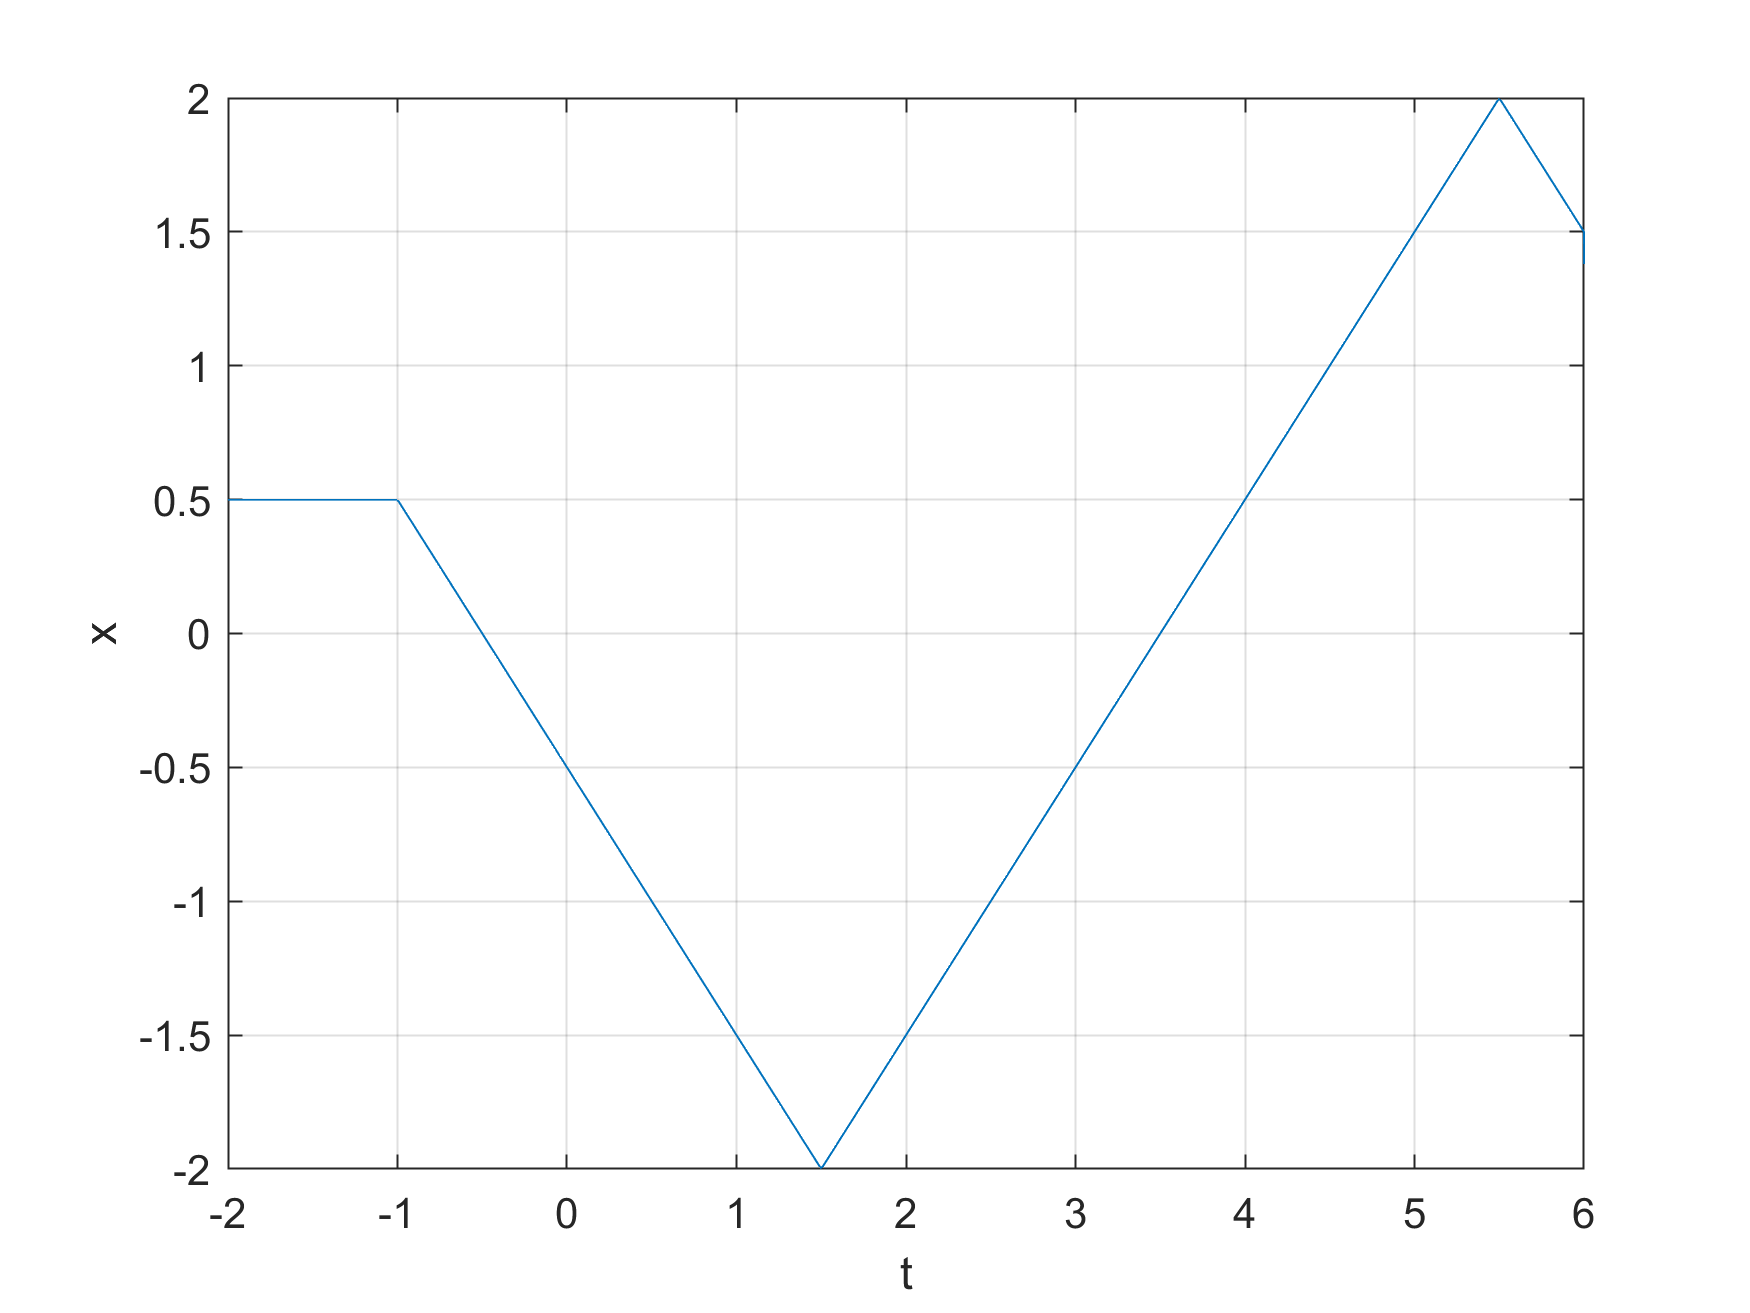
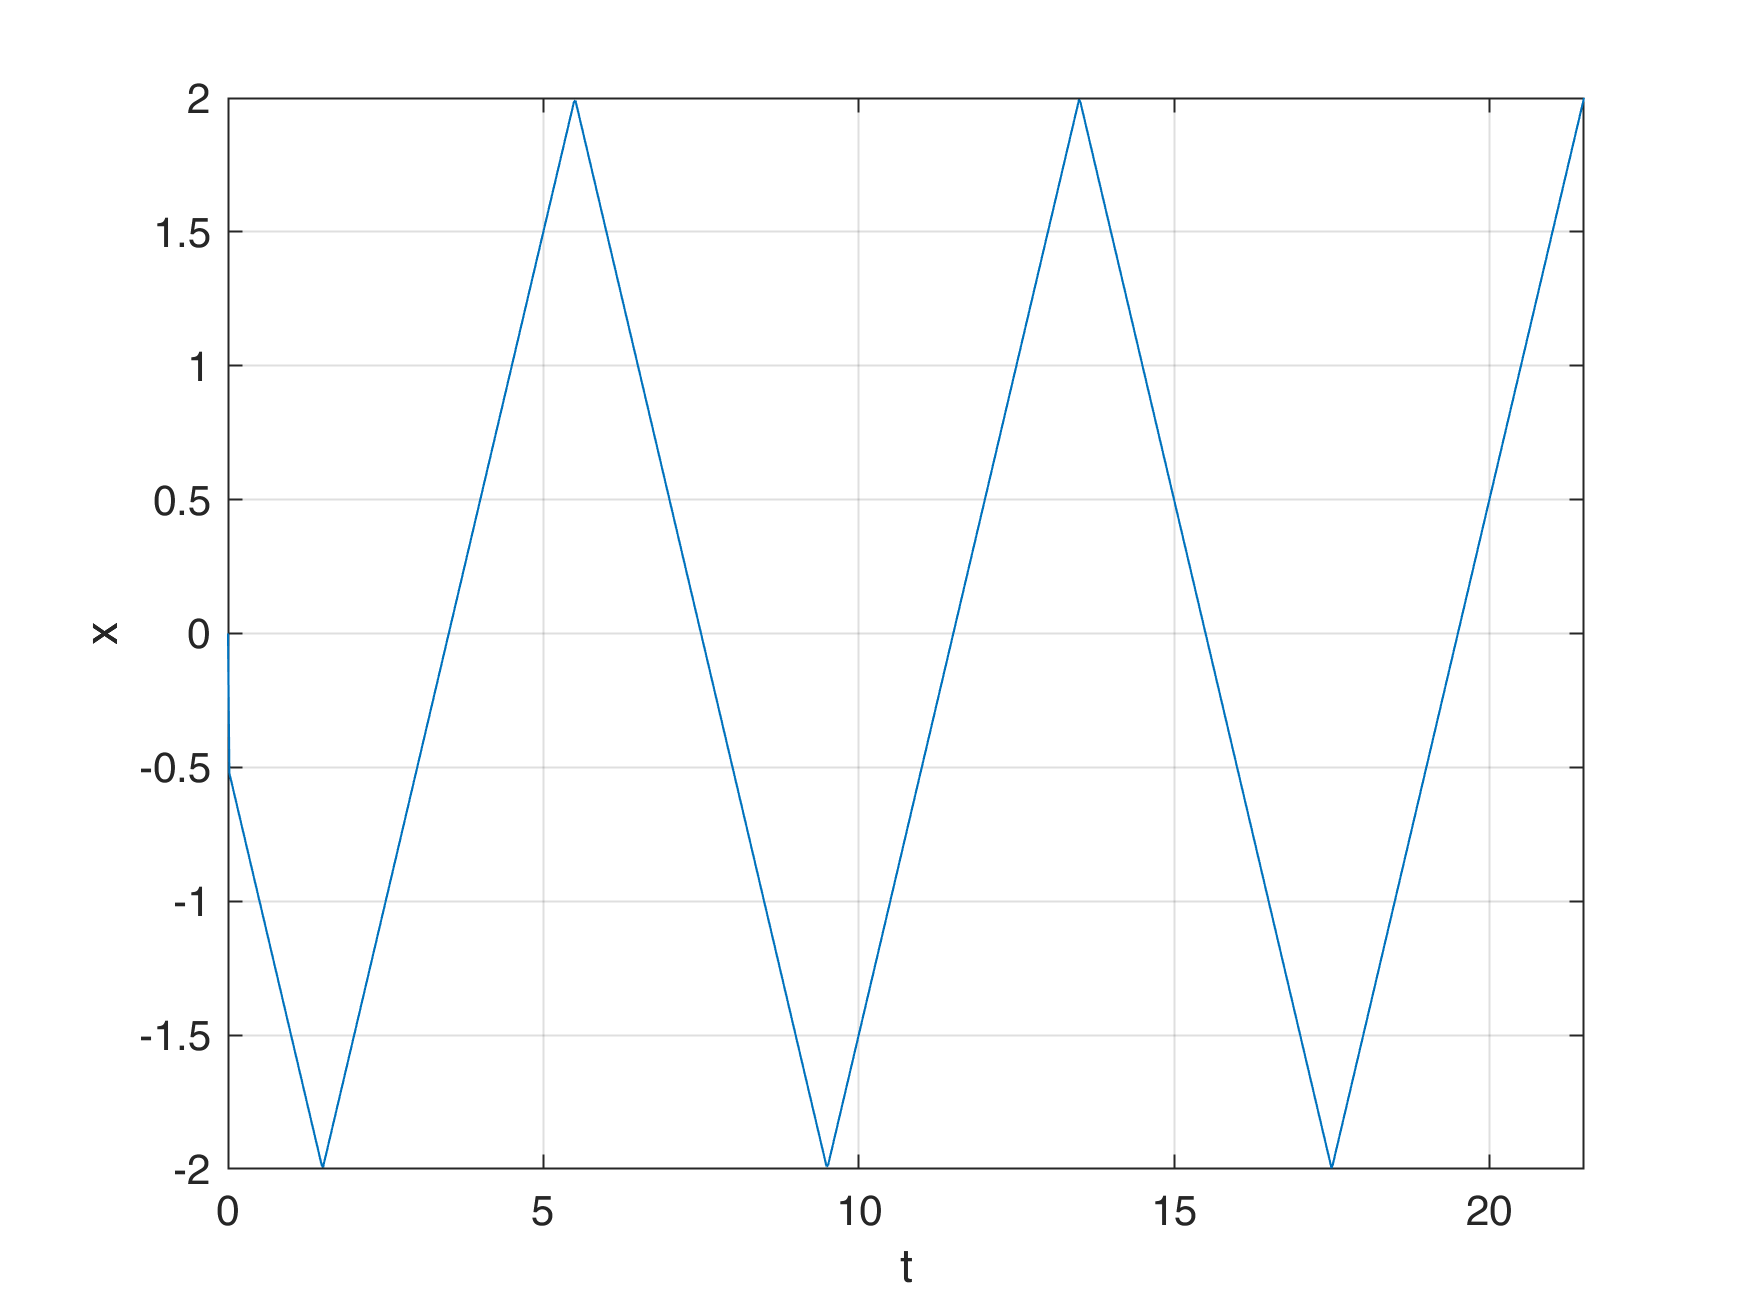
lab 1 and partilly 5 finished

diff --git a/L5/src/L5T1.m b/L5/src/L5T1.m
@@ -2,7 +2,7 @@ clear
 clc
 close all
 
-img_path = ".\..\img\";
+img_path = "img/";
 
 if ~exist(img_path, 'dir')
    mkdir(img_path);
@@ -11,16 +11,16 @@ end
 syms t;
 
 h = 2;
-% x = @(t) phi(t);
+x = @(t) phi(t);
 dxdt = @(t) -sign(x(t-h));
-
+sim_time = 21.5;
 %% Решение
-t = linspace(-h, 5*h, 1000);
+t = linspace(0, sim_time, 1000);
 
 p = figure;
-plot(t, x(t));
+plot(t, x_c(t));
 grid on
-xlim([-2, 6])
+xlim([0, sim_time])
 xlabel('t')
 ylabel('x')
 print(p, img_path + "Z1" + ".png", '-dpng', '-r300');
@@ -28,19 +28,28 @@ print(p, img_path + "Z1" + ".png", '-dpng', '-r300');
 p = figure;
 plot(t, dxdt(t));
 grid on
-xlim([-2, 6])
+xlim([0, sim_time])
 xlabel('t')
 ylabel('$\dot{x}$', 'Interpreter', 'latex')
+print(p, img_path + "Z2" + ".png", '-dpng', '-r300');
 
-function p = phi(t)
-    p = 0.5.*(t >= -2 & t < -1) + (-t - 0.5).*(t >= -1 & t <= 0);
+
+function p = phi(s)
+    p = 0.5.*(s >= -2 & s < -1) + (-s - 0.5).*(s >= -1 & s <= 0)+...
+        (-s - 0.5) .* (0   < s & s <= 1.5)+...
+        ( s - 3.5) .* (1.5 < s & s <= 5.5  )+...
+        (-s + 7.5) .* (5.5 < s & s <= 9.5  )+...
+        ( s - 11.5) .* (9.5 < s & s <= 13.5  )+...
+        (-s+ 15.5) .* (13.5 < s & s <= 17.5  )+...
+        ( s - 19.5) .* (17.5 < s & s <= 21.5  );
 end
 
-function p = x(t)
-    p = phi(t) +...
-        (-t - 0.5) .* (0   < t & t <= 1.5)+...
-        ( t - 3.5) .* (1.5 < t & t <= 2  )+...
-        ( t - 3.5) .* (2   < t & t <= 4  )+...
-        ( t - 3.5) .* (4   < t & t <= 5.5)+...
-        (-t + 7.5) .* (5.5 < t & t <= 6);
+
+function p = x_c(t)
+    p = (-t - 0.5) .* (0   < t & t <= 1.5)+...
+        ( t - 3.5) .* (1.5 < t & t <= 5.5  )+...
+        (-t + 7.5) .* (5.5 < t & t <= 9.5  )+...
+        ( t - 11.5) .* (9.5 < t & t <= 13.5  )+...
+        (-t + 15.5) .* (13.5 < t & t <= 17.5  )+...
+        ( t - 19.5) .* (17.5 < t & t <= 21.5  );
 end
